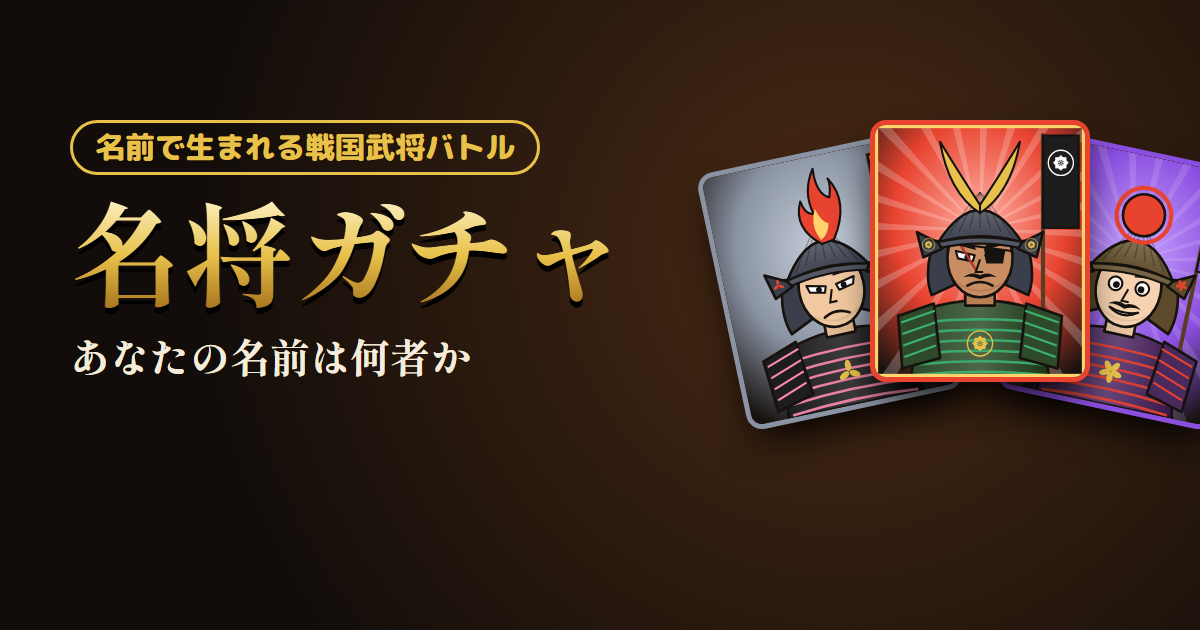
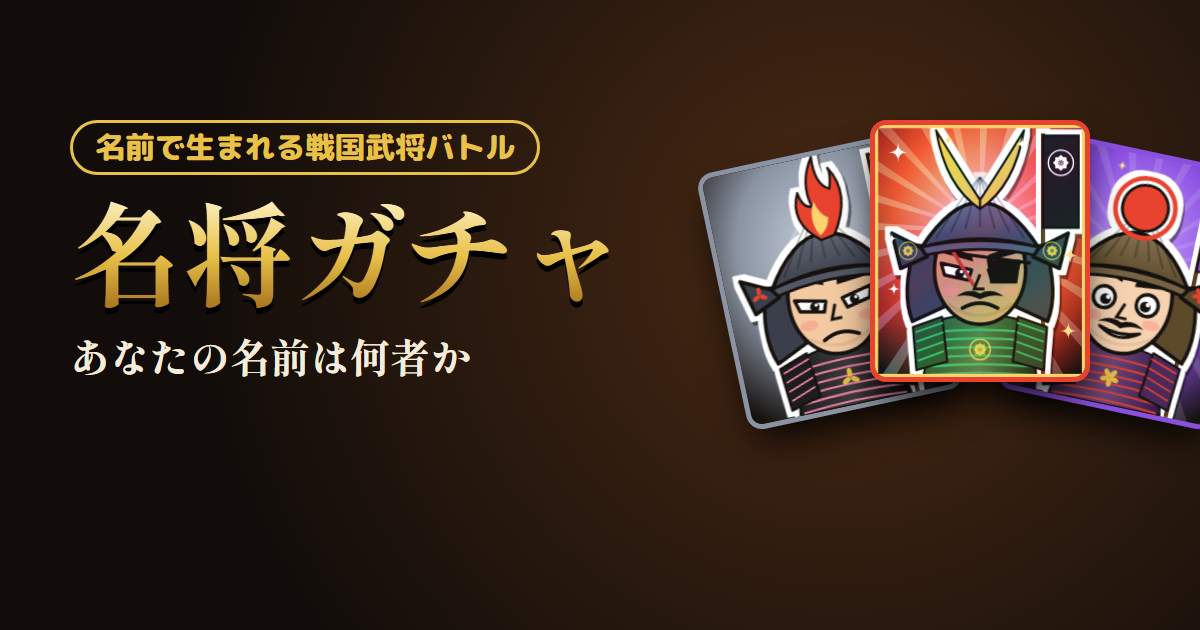
名将ガチャ: chibi portraits, skill props, sticker outline and holo rares
- Bigger head and eyes (2-heads-tall look), smaller body
- Funny skills get props: cat on helmet, onigiri, sake bottle, nose bubble, map, matcha
- White sticker outline on every general; sparkles for 名将+, animated holo for 天下人/伝説
- Battle cut-in crop follows the new head position
- Regenerated og.png with animations paused

Changed region(s): [[0.5858, 0.181, 1.0, 0.6635]]

diff --git a/bushou/art.js b/bushou/art.js
@@ -29,66 +29,91 @@ function kamonSVG(k, color, cx, cy, r, bg = 'none') {
 }
 
 // 肖像（viewBox 0 0 200 240）
+// 2頭身のデフォルメ。キャラ全体を白フチのシールにして、天下人・伝説はホロ加工
 function portraitSVG(b, opt = {}) {
   const L = b.look, id = uid('p');
   const ink = '#16120f';
   const st = `stroke="${ink}" stroke-width="2.5" stroke-linejoin="round" stroke-linecap="round"`;
   const rc = b.rarity.color, glow = b.rarity.glow;
+  const rid = b.rarity.id;
+  const rare = ['mei', 'ten', 'den'].includes(rid), holo = rid === 'ten' || rid === 'den';
+  const sk = new Set((b.skills || []).map((x) => x && x.id));
+  const txt = (x, y, size, t, fill = '#fff', extra = '') => `<text x="${x}" y="${y}" font-size="${size}" font-weight="900" font-family="sans-serif" text-anchor="middle" fill="${fill}" stroke="${ink}" stroke-width="${size / 6}" paint-order="stroke" stroke-linejoin="round" ${extra}>${t}</text>`;
   let s = '';
-  // 背景
   s += `<defs>
     <radialGradient id="${id}bg" cx="50%" cy="38%" r="75%"><stop offset="0" stop-color="${glow}"/><stop offset=".55" stop-color="${rc}"/><stop offset="1" stop-color="#16120f"/></radialGradient>
     <linearGradient id="${id}ar" x1="0" y1="0" x2="1" y2="0"><stop offset="0" stop-color="${L.armor}"/><stop offset=".5" stop-color="${shade(L.armor, 30)}"/><stop offset="1" stop-color="${shade(L.armor, -20)}"/></linearGradient>
     <linearGradient id="${id}hm" x1="0" y1="0" x2="0" y2="1"><stop offset="0" stop-color="${shade(L.helm, 40)}"/><stop offset="1" stop-color="${L.helm}"/></linearGradient>
+    <filter id="${id}st" x="-10%" y="-10%" width="120%" height="120%" color-interpolation-filters="sRGB">
+      <feMorphology in="SourceAlpha" operator="dilate" radius="4.5" result="d"/>
+      <feFlood flood-color="#fff"/><feComposite in2="d" operator="in" result="w"/>
+      <feOffset in="d" dx="2" dy="4" result="o"/><feFlood flood-color="#000" flood-opacity=".45"/><feComposite in2="o" operator="in" result="sh"/>
+      <feMerge><feMergeNode in="sh"/><feMergeNode in="w"/><feMergeNode in="SourceGraphic"/></feMerge>
+    </filter>
+    ${holo ? `<linearGradient id="${id}ho" x1="0" y1="0" x2="90" y2="110" gradientUnits="userSpaceOnUse" spreadMethod="reflect">
+      <stop offset="0" stop-color="#ff5f6d"/><stop offset=".2" stop-color="#ffc371"/><stop offset=".38" stop-color="#fff58a"/><stop offset=".55" stop-color="#6bffb8"/><stop offset=".72" stop-color="#5ecbff"/><stop offset=".88" stop-color="#b37bff"/><stop offset="1" stop-color="#ff7ad9"/>
+      <animateTransform attributeName="gradientTransform" type="translate" values="0 0;90 110;0 0" dur="6s" repeatCount="indefinite"/>
+    </linearGradient>
+    <linearGradient id="${id}sh" x1="0" y1="0" x2="1" y2="1"><stop offset=".38" stop-color="#fff" stop-opacity="0"/><stop offset=".5" stop-color="#fff" stop-opacity=".7"/><stop offset=".62" stop-color="#fff" stop-opacity="0"/></linearGradient>` : ''}
   </defs>`;
+  // 背景
   s += `<rect width="200" height="240" fill="url(#${id}bg)"/>`;
-  if (['mei', 'ten', 'den'].includes(b.rarity.id)) {
+  if (rare) {
     let rays = '';
     for (let i = 0; i < 24; i++) { const a = i / 24 * Math.PI * 2, a2 = a + .07; rays += `<path d="M100 100 L${100 + Math.cos(a) * 260} ${100 + Math.sin(a) * 260} L${100 + Math.cos(a2) * 260} ${100 + Math.sin(a2) * 260} Z"/>`; }
-    s += `<g fill="#fff" opacity="${b.rarity.id === 'den' ? .22 : .13}">${rays}</g>`;
+    s += `<g fill="#fff" opacity="${rid === 'den' ? .22 : .13}">${rays}</g>`;
   }
+
+  // ===== ここからシールになる部分 =====
+  let ch = '';
   // 旗指物（背中の旗）
-  s += `<line x1="160" y1="8" x2="160" y2="240" stroke="#5a3d22" stroke-width="4"/>`;
-  s += `<rect x="160" y="10" width="34" height="88" fill="${L.flag}" stroke="${ink}" stroke-width="2"/>`;
-  s += kamonSVG(b.kamon, contrast(L.flag), 177, 36, 13);
-  // 胴（鎧）
-  s += `<path d="M34 240 L46 176 Q100 158 154 176 L166 240 Z" fill="url(#${id}ar)" ${st}/>`;
-  for (let y = 188; y < 240; y += 10) s += `<path d="M${44 - (y - 188) * .1} ${y} Q100 ${y - 6} ${156 + (y - 188) * .1} ${y}" fill="none" stroke="${L.lace}" stroke-width="2.4" opacity=".9"/>`;
-  s += kamonSVG(b.kamon, '#e8c14a', 100, 208, 13);
-  // 袖（肩の板）
-  s += `<path d="M22 182 L56 170 L62 222 L26 232 Z" fill="${L.armor}" ${st}/><path d="M178 182 L144 170 L138 222 L174 232 Z" fill="${L.armor}" ${st}/>`;
-  for (let i = 0; i < 4; i++) { const y = 186 + i * 11; s += `<path d="M${25 + i} ${y + 2} L${57 + i * .3} ${y - 9}" stroke="${L.lace}" stroke-width="2"/><path d="M${175 - i} ${y + 2} L${143 - i * .3} ${y - 9}" stroke="${L.lace}" stroke-width="2"/>`; }
-  // 首
-  s += `<rect x="86" y="150" width="28" height="22" fill="${shade(L.skin, -15)}" ${st}/>`;
-  // しころ（兜の首まわり）
-  s += `<path d="M56 110 Q46 142 54 162 L76 152 Q68 132 70 112 Z" fill="${L.helm}" ${st}/><path d="M144 110 Q154 142 146 162 L124 152 Q132 132 130 112 Z" fill="${L.helm}" ${st}/>`;
-  // 顔
-  s += `<ellipse cx="100" cy="127" rx="31" ry="37" fill="${L.skin}" ${st}/>`;
-  s += `<path d="M78 150 Q100 166 122 150" fill="none" stroke="${shade(L.skin, -25)}" stroke-width="2" opacity=".6"/>`;
-  // 目
+  ch += `<line x1="160" y1="8" x2="160" y2="240" stroke="#5a3d22" stroke-width="4"/>`;
+  ch += `<rect x="160" y="10" width="34" height="88" fill="${L.flag}" stroke="${ink}" stroke-width="2"/>`;
+  ch += kamonSVG(b.kamon, contrast(L.flag), 177, 36, 13);
+
+  // 胴（小さめにして頭を目立たせる）
+  let body = '';
+  body += `<path d="M34 240 L46 176 Q100 158 154 176 L166 240 Z" fill="url(#${id}ar)" ${st}/>`;
+  for (let y = 188; y < 240; y += 10) body += `<path d="M${44 - (y - 188) * .1} ${y} Q100 ${y - 6} ${156 + (y - 188) * .1} ${y}" fill="none" stroke="${L.lace}" stroke-width="2.4" opacity=".9"/>`;
+  body += kamonSVG(b.kamon, '#e8c14a', 100, 208, 13);
+  body += `<path d="M22 182 L56 170 L62 222 L26 232 Z" fill="${L.armor}" ${st}/><path d="M178 182 L144 170 L138 222 L174 232 Z" fill="${L.armor}" ${st}/>`;
+  for (let i = 0; i < 4; i++) { const y = 186 + i * 11; body += `<path d="M${25 + i} ${y + 2} L${57 + i * .3} ${y - 9}" stroke="${L.lace}" stroke-width="2"/><path d="M${175 - i} ${y + 2} L${143 - i * .3} ${y - 9}" stroke="${L.lace}" stroke-width="2"/>`; }
+  ch += `<g transform="translate(100 240) scale(.82) translate(-100 -240)">${body}</g>`;
+
+  // 頭（1.4倍。顔の中心が (100,138) に来る）
+  let h = '';
+  h += `<path d="M56 110 Q46 142 54 162 L76 152 Q68 132 70 112 Z" fill="${L.helm}" ${st}/><path d="M144 110 Q154 142 146 162 L124 152 Q132 132 130 112 Z" fill="${L.helm}" ${st}/>`;
+  h += `<ellipse cx="100" cy="127" rx="31" ry="37" fill="${L.skin}" ${st}/>`;
+  h += `<path d="M78 150 Q100 166 122 150" fill="none" stroke="${shade(L.skin, -25)}" stroke-width="2" opacity=".6"/>`;
+  // ほっぺ
+  h += sk.has('sake')
+    ? `<ellipse cx="80" cy="141" rx="8" ry="4.5" fill="#ff3b3b" opacity=".7"/><ellipse cx="120" cy="141" rx="8" ry="4.5" fill="#ff3b3b" opacity=".7"/>`
+    : `<ellipse cx="80" cy="141" rx="6" ry="3.5" fill="#ff7a7a" opacity=".35"/><ellipse cx="120" cy="141" rx="6" ry="3.5" fill="#ff7a7a" opacity=".35"/>`;
+  // 目と眉（さらに少し大きく）
+  const eyeType = sk.has('hirune') ? 'sleepy' : L.eyes;
   const eyes = {
-    fierce: `<path d="M77 120 L95 124 L93 130 L79 127 Z M123 120 L105 124 L107 130 L121 127 Z" fill="#fff" ${st} stroke-width="2"/><circle cx="88" cy="126" r="2.8" fill="${ink}"/><circle cx="112" cy="126" r="2.8" fill="${ink}"/>`,
-    round: `<circle cx="87" cy="125" r="6.5" fill="#fff" ${st} stroke-width="2"/><circle cx="113" cy="125" r="6.5" fill="#fff" ${st} stroke-width="2"/><circle cx="88" cy="126" r="3.2" fill="${ink}"/><circle cx="112" cy="126" r="3.2" fill="${ink}"/>`,
+    fierce: `<path d="M77 120 L95 124 L93 130 L79 127 Z M123 120 L105 124 L107 130 L121 127 Z" fill="#fff" ${st} stroke-width="2"/><circle cx="88" cy="126" r="2.8" fill="${ink}"/><circle cx="112" cy="126" r="2.8" fill="${ink}"/><circle cx="89" cy="125" r="1" fill="#fff"/><circle cx="113" cy="125" r="1" fill="#fff"/>`,
+    round: `<circle cx="87" cy="125" r="6.5" fill="#fff" ${st} stroke-width="2"/><circle cx="113" cy="125" r="6.5" fill="#fff" ${st} stroke-width="2"/><circle cx="88" cy="126" r="3.2" fill="${ink}"/><circle cx="112" cy="126" r="3.2" fill="${ink}"/><circle cx="89.3" cy="124.6" r="1.3" fill="#fff"/><circle cx="113.3" cy="124.6" r="1.3" fill="#fff"/>`,
     sleepy: `<path d="M79 126 Q87 122 95 126 M105 126 Q113 122 121 126" fill="none" ${st}/><path d="M80 127 Q87 131 94 127 M106 127 Q113 131 120 127" fill="none" stroke="${ink}" stroke-width="1.6"/>`,
     glare: `<path d="M78 124 L96 125 M104 125 L122 124" ${st} stroke-width="3.5"/><circle cx="88" cy="125" r="1.8" fill="#e8432f"/><circle cx="112" cy="125" r="1.8" fill="#e8432f"/>`,
   };
-  s += eyes[L.eyes];
-  if (L.eyepatch) s += `<path d="M104 118 L124 118 L122 132 L106 132 Z" fill="${ink}"/><path d="M70 112 L130 120" stroke="${ink}" stroke-width="2"/>`;
-  if (L.scar) s += `<path d="M80 112 L96 138" stroke="#b23a2b" stroke-width="2.4"/>`;
-  // 眉
+  let e = eyes[eyeType];
+  if (L.eyepatch) e += `<path d="M104 118 L124 118 L122 132 L106 132 Z" fill="${ink}"/><path d="M70 112 L130 120" stroke="${ink}" stroke-width="2"/>`;
   const brows = {
     angry: `<path d="M74 113 L96 119 L95 115 L75 108 Z M126 113 L104 119 L105 115 L125 108 Z" fill="${ink}"/>`,
     flat: `<path d="M75 113 L96 113 L96 109 L75 109 Z M125 113 L104 113 L104 109 L125 109 Z" fill="${ink}"/>`,
     sad: `<path d="M75 110 L96 115 L96 111 L76 106 Z M125 110 L104 115 L104 111 L124 106 Z" fill="${ink}" transform="rotate(8 100 112)"/>`,
   };
-  s += brows[L.brows];
+  e += brows[L.brows];
+  h += `<g transform="translate(100 104) scale(1.15) translate(-100 -104)">${e}</g>`;
+  if (L.scar) h += `<path d="M80 112 L96 138" stroke="#b23a2b" stroke-width="2.4"/>`;
   // 鼻
-  s += `<path d="M100 128 L96 140 L103 140" fill="none" stroke="${ink}" stroke-width="2"/>`;
+  h += `<path d="M100 130 L96 140 L103 140" fill="none" stroke="${ink}" stroke-width="2"/>`;
   // 口・面頬（めんぼお）
   if (L.mask) {
-    s += `<path d="M72 138 Q100 132 128 138 L124 160 Q100 172 76 160 Z" fill="#7a1f1f" ${st}/>`;
-    s += `<path d="M84 150 L116 150" stroke="#f2f2f2" stroke-width="3"/><path d="M88 146 L88 154 M94 146 L94 154 M100 146 L100 154 M106 146 L106 154 M112 146 L112 154" stroke="${ink}" stroke-width="1.5"/>`;
-    s += `<path d="M78 142 Q72 146 76 150 M122 142 Q128 146 124 150" fill="none" stroke="#f2f2f2" stroke-width="2"/>`;
+    h += `<path d="M72 138 Q100 132 128 138 L124 160 Q100 172 76 160 Z" fill="#7a1f1f" ${st}/>`;
+    h += `<path d="M84 150 L116 150" stroke="#f2f2f2" stroke-width="3"/><path d="M88 146 L88 154 M94 146 L94 154 M100 146 L100 154 M106 146 L106 154 M112 146 L112 154" stroke="${ink}" stroke-width="1.5"/>`;
+    h += `<path d="M78 142 Q72 146 76 150 M122 142 Q128 146 124 150" fill="none" stroke="#f2f2f2" stroke-width="2"/>`;
   } else {
     const mouth = {
       grin: `<path d="M86 148 Q100 158 114 148 Q100 153 86 148 Z" fill="#fff" ${st} stroke-width="2"/>`,
@@ -96,24 +121,25 @@ function portraitSVG(b, opt = {}) {
       frown: `<path d="M88 153 Q100 146 112 153" fill="none" ${st}/>`,
       smirk: `<path d="M88 151 Q102 152 113 145" fill="none" ${st}/>`,
     };
-    s += mouth[L.mouth];
+    h += mouth[L.mouth];
     const beard = {
       none: '',
       mustache: `<path d="M84 145 Q92 139 100 143 Q108 139 116 145 Q108 143 100 147 Q92 143 84 145 Z" fill="${ink}"/>`,
       full: `<path d="M70 132 Q72 166 100 170 Q128 166 130 132 Q124 152 112 156 Q100 162 88 156 Q76 152 70 132 Z" fill="${ink}"/><path d="M84 145 Q100 139 116 145" stroke="${ink}" stroke-width="4" fill="none"/>`,
       goatee: `<path d="M94 158 Q100 172 106 158 Z" fill="${ink}"/><path d="M86 145 Q100 140 114 145" stroke="${ink}" stroke-width="3" fill="none"/>`,
     };
-    s += beard[L.beard];
+    h += beard[L.beard];
   }
   // 兜
-  s += `<path d="M60 112 Q100 50 140 112 Q100 100 60 112 Z" fill="url(#${id}hm)" ${st}/>`;
-  for (let i = 1; i < 8; i++) { const x = 60 + i * 10; s += `<path d="M${x} ${110 - Math.sin(i / 8 * Math.PI) * 12} Q${100 + (x - 100) * .3} ${72} 100 64" fill="none" stroke="#000" stroke-opacity=".25" stroke-width="1.4"/>`; }
-  s += `<path d="M58 112 Q100 102 142 112 L142 118 Q100 108 58 118 Z" fill="${shade(L.helm, 25)}" ${st} stroke-width="2"/>`;
-  // 吹返し（兜の左右のそり返し）
-  s += `<path d="M60 112 L40 102 L46 126 L64 118 Z" fill="${L.helm}" ${st}/><path d="M140 112 L160 102 L154 126 L136 118 Z" fill="${L.helm}" ${st}/>`;
-  s += kamonSVG(b.kamon, L.crestColor, 51, 114, 6.5);
-  s += kamonSVG(b.kamon, L.crestColor, 149, 114, 6.5);
-  // 前立て（兜の飾り）
+  h += `<path d="M60 112 Q100 50 140 112 Q100 100 60 112 Z" fill="url(#${id}hm)" ${st}/>`;
+  for (let i = 1; i < 8; i++) { const x = 60 + i * 10; h += `<path d="M${x} ${110 - Math.sin(i / 8 * Math.PI) * 12} Q${100 + (x - 100) * .3} ${72} 100 64" fill="none" stroke="#000" stroke-opacity=".25" stroke-width="1.4"/>`; }
+  h += `<path d="M58 112 Q100 102 142 112 L142 118 Q100 108 58 118 Z" fill="${shade(L.helm, 25)}" ${st} stroke-width="2"/>`;
+  h += `<path d="M60 112 L40 102 L46 126 L64 118 Z" fill="${L.helm}" ${st}/><path d="M140 112 L160 102 L154 126 L136 118 Z" fill="${L.helm}" ${st}/>`;
+  h += kamonSVG(b.kamon, L.crestColor, 51, 114, 6.5);
+  h += kamonSVG(b.kamon, L.crestColor, 149, 114, 6.5);
+  ch += `<g transform="translate(100 138) scale(1.4) translate(-100 -127)">${h}</g>`;
+
+  // 前立て（兜の飾り）。頭ほどは大きくしない
   const c = L.crestColor;
   const crest = {
     kuwagata: `<path d="M100 84 Q70 64 62 16 Q84 52 100 76 Z M100 84 Q130 64 138 16 Q116 52 100 76 Z" fill="${c}" ${st} stroke-width="2"/>`,
@@ -125,9 +151,53 @@ function portraitSVG(b, opt = {}) {
     hoshi: `<path d="M100 22 L108 46 L134 46 L113 61 L121 86 L100 71 L79 86 L87 61 L66 46 L92 46 Z" fill="${c}" ${st} stroke-width="2"/>`,
     kamon: `<circle cx="100" cy="56" r="24" fill="${ink}"/>` + kamonSVG(b.kamon, c, 100, 56, 21),
   };
-  s += crest[L.crest];
-  // 伝説はオーラ
-  if (b.rarity.id === 'den') s += `<rect width="200" height="240" fill="none" stroke="#ffd36b" stroke-width="6"/>`;
+  ch += `<g transform="translate(100 80) scale(1.1) translate(-100 -84)">${crest[L.crest]}</g>`;
+
+  // ===== スキルの小物（ツッコミどころ） =====
+  if (sk.has('nekozuki')) { // 兜の上に猫
+    const cat = '#f2a33a';
+    ch += `<path d="M162 100 Q180 96 174 78" fill="none" stroke="${ink}" stroke-width="8" stroke-linecap="round"/><path d="M162 100 Q180 96 174 78" fill="none" stroke="${cat}" stroke-width="4.5" stroke-linecap="round"/>`;
+    ch += `<ellipse cx="149" cy="98" rx="17" ry="11" fill="${cat}" ${st}/><path d="M145 89 L147 95 M152 88 L153 94 M158 90 L158 96" stroke="#c4761a" stroke-width="2.2"/>`;
+    ch += `<path d="M125 82 L126 69 L134 76 Z M136 76 L144 69 L144 82 Z" fill="${cat}" ${st} stroke-width="2"/>`;
+    ch += `<circle cx="134" cy="86" r="11" fill="${cat}" ${st}/>`;
+    ch += `<path d="M128 86 Q130 83 132 86 M136 86 Q138 83 140 86" fill="none" stroke="${ink}" stroke-width="1.8" stroke-linecap="round"/><path d="M132 90 Q134 92.5 134 90 Q134 92.5 136 90" fill="none" stroke="${ink}" stroke-width="1.4"/>`;
+    ch += `<ellipse cx="128" cy="90" rx="2.6" ry="1.5" fill="#ff7a7a" opacity=".7"/><ellipse cx="140" cy="90" rx="2.6" ry="1.5" fill="#ff7a7a" opacity=".7"/>`;
+  }
+  if (sk.has('harapeko')) { // おにぎり＋よだれ＋ぐぅ〜
+    ch += `<g transform="rotate(-12 48 206)"><path d="M48 184 Q53 184 66 210 Q69 220 60 220 L36 220 Q27 220 30 210 Q43 184 48 184 Z" fill="#fff" ${st}/><rect x="38" y="207" width="20" height="13" fill="#1f2a1f" stroke="${ink}" stroke-width="2"/><circle cx="44" cy="198" r="1.4" fill="#c9c9c9"/><circle cx="52" cy="194" r="1.4" fill="#c9c9c9"/></g>`;
+    ch += `<path d="M117 167 Q122 177 117 180 Q112 177 117 167 Z" fill="#8cd3ff" stroke="${ink}" stroke-width="1.5"/>`;
+    ch += txt(150, 234, 17, 'ぐぅ〜');
+  }
+  if (sk.has('sake')) { // 徳利
+    ch += `<g transform="rotate(12 160 206)"><path d="M154 182 L166 182 L164 191 Q177 201 175 217 Q173 226 160 226 Q147 226 145 217 Q143 201 156 191 Z" fill="#f4f1e8" ${st}/><path d="M149 204 Q160 209 171 204" stroke="#2f5fae" stroke-width="3" fill="none"/>${txt(160, 221, 12, '酒', '#2f5fae', 'stroke="#f4f1e8"')}</g>`;
+    ch += txt(34, 66, 15, 'ヒック', '#ffd36b');
+  }
+  if (sk.has('hirune')) { // 鼻ちょうちん＋Zz
+    ch += `<circle cx="117" cy="158" r="11" fill="#bfe6ff" fill-opacity=".8" stroke="#5aa9d6" stroke-width="2"/><circle cx="113" cy="154" r="2.6" fill="#fff"/>`;
+    ch += txt(26, 70, 26, 'Z', '#bfe6ff') + txt(44, 46, 17, 'z', '#bfe6ff');
+  }
+  if (sk.has('houkou')) { // 逆さの地図＋？
+    ch += `<g transform="rotate(-14 44 208)"><rect x="24" y="192" width="42" height="30" fill="#e9d9a8" ${st}/><path d="M30 215 Q38 200 46 210 T60 198" stroke="#b23a2b" stroke-dasharray="3 3" fill="none" stroke-width="2"/><path d="M55 196 L61 202 M61 196 L55 202" stroke="#b23a2b" stroke-width="2"/></g>`;
+    ch += txt(26, 72, 30, '?', '#ffd36b') + txt(46, 44, 20, '?', '#ffd36b');
+  }
+  if (sk.has('chanoyu')) { // 抹茶
+    ch += `<path d="M42 196 Q38 188 42 182 Q46 176 42 170 M54 196 Q50 188 54 182" stroke="#fff" stroke-opacity=".85" stroke-width="2.5" fill="none" stroke-linecap="round"/>`;
+    ch += `<path d="M27 202 L69 202 Q67 225 48 225 Q29 225 27 202 Z" fill="#4a3b30" ${st}/><ellipse cx="48" cy="202" rx="21" ry="4" fill="#7cb342" stroke="${ink}" stroke-width="2"/>`;
+  }
+  s += `<g filter="url(#${id}st)">${ch}</g>`;
+
+  // ===== レア演出 =====
+  if (holo) {
+    s += `<rect width="200" height="240" fill="url(#${id}ho)" opacity=".32" style="mix-blend-mode:overlay"/>`;
+    s += `<rect x="-200" y="0" width="200" height="240" fill="url(#${id}sh)"><animate attributeName="x" values="-200;200;200" keyTimes="0;.45;1" dur="3.5s" repeatCount="indefinite"/></rect>`;
+  }
+  if (rare) {
+    const spark = (x, y, r, f) => `<path d="M${x} ${y - r} Q${x} ${y} ${x + r} ${y} Q${x} ${y} ${x} ${y + r} Q${x} ${y} ${x - r} ${y} Q${x} ${y} ${x} ${y - r} Z" fill="${f}"/>`;
+    const sp = [[22, 26, 9], [186, 124, 7], [18, 156, 6], [70, 14, 5]];
+    if (holo) sp.push([140, 18, 6], [184, 196, 8], [16, 108, 5]);
+    s += sp.map(([x, y, r], i) => spark(x, y, r, i % 2 ? '#ffe08a' : '#fff')).join('');
+  }
+  if (rid === 'den') s += `<rect width="200" height="240" fill="none" stroke="#ffd36b" stroke-width="6"/>`;
   return dedupeAttrs(`<svg viewBox="0 0 200 240" xmlns="http://www.w3.org/2000/svg" ${opt.attrs || ''}>${s}</svg>`);
 }
 

diff --git a/bushou/og.html b/bushou/og.html
@@ -20,5 +20,7 @@
 const names = ['さくら', '織田信長', '山田花子'];
 document.getElementById('fan').innerHTML = names.map((n, i) => { const b = makeBushou(n); const rot = (i - 1) * 12, dx = (i - 1) * 150, dy = Math.abs(i - 1) * 30;
   return `<div class="c" style="border-color:${b.rarity.color};transform:translateX(calc(-50% + ${dx}px)) translateY(${dy}px) rotate(${rot}deg);z-index:${i === 1 ? 3 : 1}">${portraitSVG(b)}</div>`; }).join('');
+// ホロの光の筋が写り込まないよう、アニメは最初のコマで止める
+document.querySelectorAll('#fan svg').forEach((s) => { s.pauseAnimations(); s.setCurrentTime(0); });
 </script>
 </body></html>

diff --git a/bushou/app.js b/bushou/app.js
@@ -440,7 +440,7 @@ function btDraw() {
     for (let i = 0; i < 16; i++) { const y = 70 + i * 9; g.beginPath(); g.moveTo(left ? BW : 0, y); g.lineTo(left ? BW - 120 - (i % 3) * 40 : 120 + (i % 3) * 40, y); g.stroke(); }
     const img = S.imgs[c.side];
     const px = left ? 10 : BW - 130;
-    g.drawImage(img, 0, 30, 200, 130, px, 82, 120, 78 * 1.6);
+    g.drawImage(img, 0, 50, 200, 130, px, 82, 120, 78 * 1.6);
     g.textAlign = left ? 'left' : 'right';
     const tx = left ? 140 : BW - 140;
     g.font = '800 15px "M PLUS Rounded 1c"'; g.fillStyle = '#fff'; g.fillText((left ? S.A : S.B).name, tx, 112);
